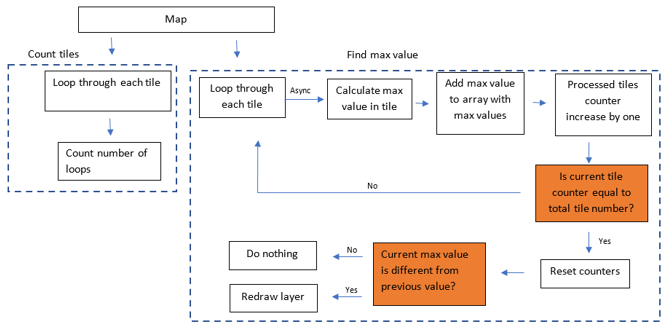
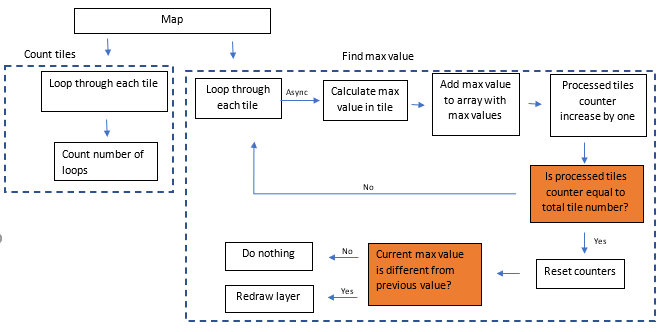
Report backup

diff --git a/Report/Part3/DevelopingTool.tex b/Report/Part3/DevelopingTool.tex
@@ -190,8 +190,9 @@ This bug will be defining for the rest of the code.
 
 
 \section{Calculate max value in current extent}
-Calculating the highest value in the current extent can be divided into two smaller tasks. Figuring out which tiles currently are being displayed and processing these tiles.
+Calculating the highest value in the current extent can be divided into two smaller tasks. Figuring out which tiles currently are being displayed and processing these tiles. It was decided not to calculate the lowest value in each tiles, since the calculation noticable inscreased the processing time without yielding any benefit. This is expanded upon in section \ref{WhyNoMin}
 
+\fxnote{Mention the negative values in case data}
 \subsection{Current displayed tiles}
 
 The tiles, which currently is within the view, can be found using the Openlayers tileGrid method forEachTileCoord. This method can trigger a function for each tile within a given zoom level and extent. 
@@ -273,9 +274,22 @@ In addition to the rendering of the raster in the map, some features were also a
 	\caption{A second map}
 	\label{DualMaps}
 \end{figure}
-To be able to compare different rasters with eachother a second map was added as illustrated in figure \ref{DualMaps}. This second map is having its own raster dataset but sharing the view with the first map. This means that the two maps would always show the same area. Panning or zooming in one map would do the same action in the other map. The two maps are sharing the same legend. 
+To be able to compare different rasters with each other a second map was added as illustrated in figure \ref{DualMaps}. This second map is having its own raster dataset but sharing the view with the first map. This means that the two maps would always show the same area. Panning or zooming in one map would do the same action in the other map. The two maps are sharing the same legend. 
 
-\fxnote{TODO: Write about evaluating max value based on two maps}
+The two projection are also sharing the same color scale. This means that the coloring is done based on the maximum value in the current extent of either of the maps. To accomplish this changes were made to the function, which were finding the maximum value among the tiles as illustrated in figure x.
+ 
+\begin{figure} [H]
+	\centering
+	\includegraphics[width=.8\textwidth]{Pictures/ChangeToMaxCalculation}
+	\caption{Calculating the maximum value for two maps. Changes from the original have been written in bold}
+	\label{ChangeToMaxCalculation}
+\end{figure}
+
+This function is now being used twice, once for each layer. If the same function as presented in section x was used, then the redrawing would potentially trigger twice. 
+
+To avoid this each of the maps are given their own processed tiles counter. The if statement, which is resetting the counters and triggering the recoloring, has been changed, so that it now is checking if both of these processed tiles counters is equal to the total number of tiles. Thereby the recoloring can only happen, when the tile in both maps have been processed. 
+
+The two maps would always display the same amount of tiles, since they are sharing the same view. It is therefore only necessary to calculate the amount of tiles for one of the layers. 
 %Add to dualmaps how the double evaluation for multiple maps were build 
 
 \subsection{Search function}

diff --git a/Report/Part4/Discussion.tex b/Report/Part4/Discussion.tex
@@ -81,4 +81,27 @@ The grey bars are when a loaded file is being stalled. The blue bars are when th
 \fxnote{Mention caddy – 6 connection issue earlier}
  
 
+\section{Not calculating minimum values in tiles} \label{WhyNoMin}
+
+In the original version of the map both the minimum and maximum values were being calculated. However the program consistently defined the lowest value in currently visible tiles as 0.
+This does not mean that all the tiles had minimum values of 0, just that there always were a tile in the map extent with a value of 0. In the vast majority of case the value would be 0. Few would be below 100. In the densest of cities the minimum value for some tiles was higher than 1000. 
+It is possible that by zoom close enough to a major city it none of the tiles within view would have a value of 0 in which case the minimum value should be adjusted.
+This is the main argument for calculating a minimum value. The downside of calculating it is that it has an significant effect on the processing time of the raster layer. Table \ref{tabMinimum} shows the time in seconds it takes for the layer to be rendered with and without calculating the minimum value. On average the rendering time is a second faster, when not calculating the minimum value.
+
+\begin{table}[htbp]
+	\centering
+	\begin{tabular}{l}
+		\includegraphics[width=0.8\textwidth]{Pictures/tabMinimum}
+	\end{tabular}
+	\caption{Seconds to fully render the website with and without calculating the minimum value}
+	\label{tabMinimum}
+\end{table}
+
+The reason that the calculation of minimum value has such an effect on the processing time is presumably that the minimum value cannot be calculated in the same way as the maximum value. 
+The maximum value is calculated by finding the maximum value in the array with all values. 
+\fxnote{Write about nodata}
+If the same operation is done to find the minimum value, the found minimum value often is -2147483648. As mentioned in section x that value means that no data is available for that pixel. 
+It is therefore necessary to find the lowest positive value since no data is not the same as 0. This can be done by first filtering the raster, so only the positive values are left. The smallest of these values can then be calculated in the same way as the maximum value get calculated. 
+It was decided that calculating a minimum value, which mostly would be 0 was not worth an additional second of loading. 
+
 \section{Is this even a good measurement for performance?}

diff --git a/Report/Part2/EvaluationMethods.tex b/Report/Part2/EvaluationMethods.tex
@@ -97,4 +97,14 @@ The scores from each metrics are then weighted to reflect that each factor does 
 
 \fxnote{Make table with score weights}
 
+\section{Additional measurements}
+
+The measurement mentioned so far only take the initial load into consideration, not the postload performance. 
+Therefore, two additional measurements were conducted. Both of these were measured using the Performance tool in the Google Chrome Developer tool. Since there are slight variation in the time needed to perform the requests, each operation was tested multiple time and the average was calculated.
+\subsection{Time to color new layer}
+This is the time in seconds required to load and color completely new sets of tiles for both maps. The scenario is created by zooming to a new zoom extent. This is done to ensure that none of the tiles on the map have been loaded before. The measured time is the time from the map is clicked, initiating the zooming, till the layer have been colored.
+
+\subsection{Time to recolor a loaded layer}
+This measurement is the time recolor a layer with loading. This scenario is created by panning to a previously loaded part of the map, so that it is recolored.
+It is measured from the moment, the panning stops since the recoloring script is initiated on ended movement. The timer is stopped, when the layer is recolored.
 
